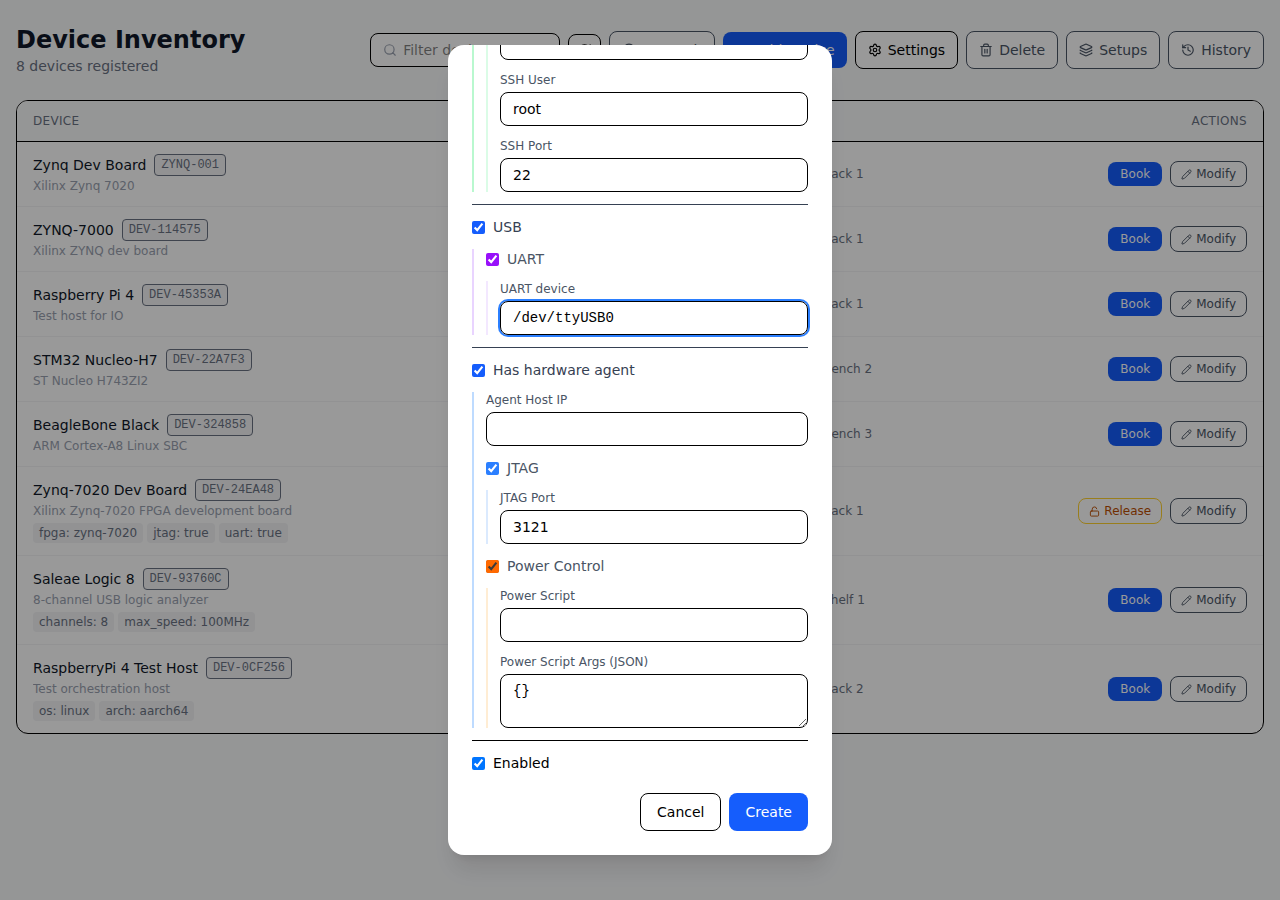
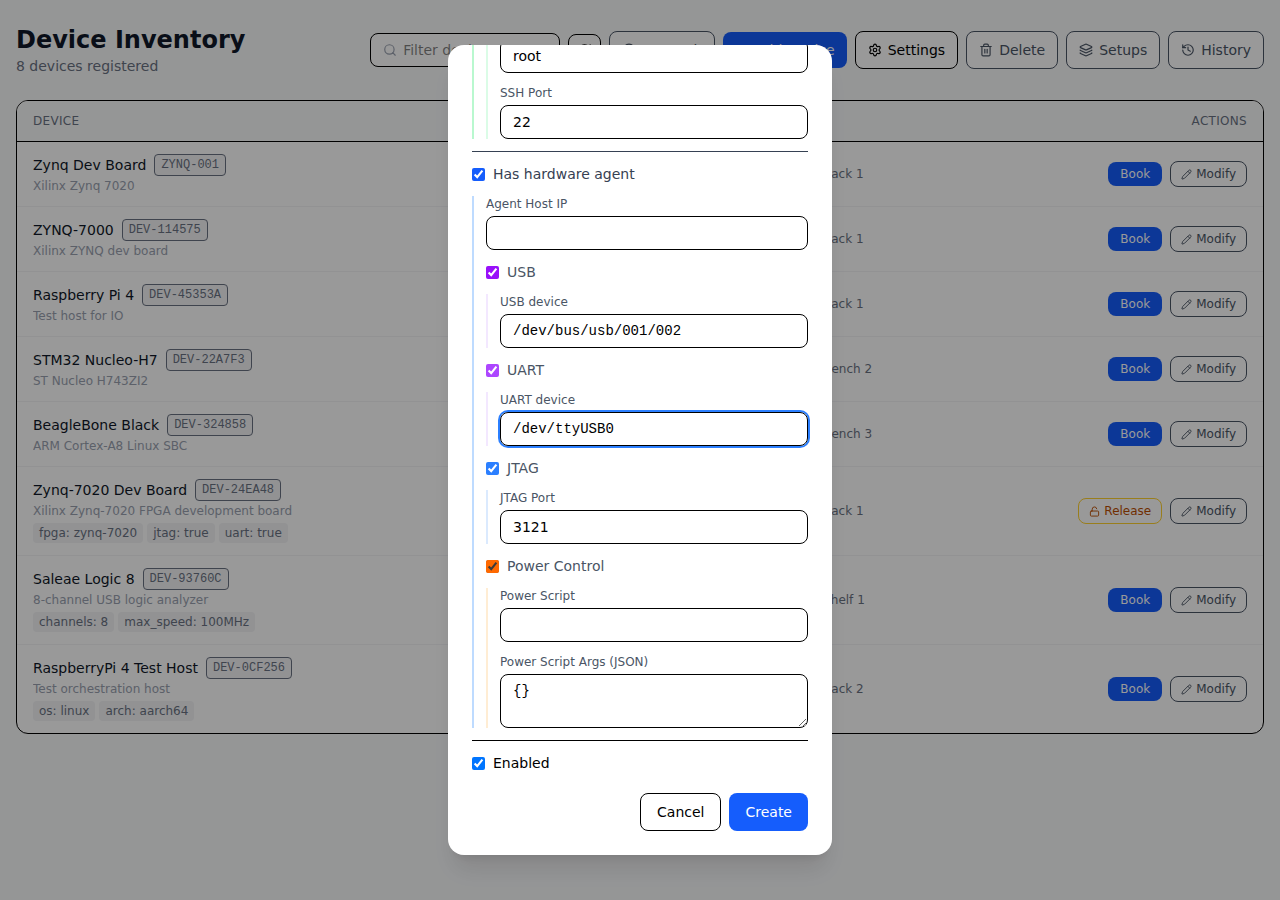
Update README and screenshot to match current form hierarchy
README fixes:
- Add Device form description updated: USB/UART now inside agent section,
  Ethernet shows Device IP at its level with SSH as sub-checkbox
- UART connectivity command updated from telnet to SSH+socat tunnel
- Device fields table: usb_device description corrected, uart_device added,
  uart_tcp_port removed
- Agent config example updated: added usb_device, removed uart_baud/uart_tcp_port
- Screenshot caption updated

Screenshot: add-device-modal-agent.png retaken showing Has hardware agent
expanded with USB, UART, JTAG and Power Control as sub-checkboxes

https://claude.ai/code/session_01GABJSn9qP5pQbQ7Q7k4QpR

Changed region(s): [[0.3438, 0.0622, 0.625, 0.3733], [0.3438, 0.4044, 0.5, 0.4978]]

diff --git a/README.md b/README.md
@@ -117,10 +117,9 @@ agent:
 
 boards:
   - id: "paste-device-uuid-here"
-    uart_device: "/dev/ttyUSB0"
-    uart_baud: 115200
-    jtag_port: 3121
-    uart_tcp_port: 5555
+    usb_device: "/dev/bus/usb/001/002"  # raw USB device (optional)
+    uart_device: "/dev/ttyUSB0"         # UART serial device (optional)
+    jtag_port: 3121                     # hw_server port (optional)
     power_script: "../power/usb_relay.py"
     power_args:
       relay_id: 1
@@ -156,9 +155,9 @@ Custom controllers: subclass `power.base.PowerController`.
 |----------|--------------------------|
 | ![Settings modal for server URL and username](screenshots/settings-modal.png) | ![Add setup modal with searchable device picker](screenshots/add-setup-modal.png) |
 
-| Book Setup modal | Add device (Ethernet + agent expanded) |
-|-----------------|---------------------------------------|
-| ![Book setup modal with duration and comment](screenshots/book-setup-modal.png) | ![Add device modal with Ethernet and agent sections expanded](screenshots/add-device-modal-agent.png) |
+| Book Setup modal | Add device (agent section expanded) |
+|-----------------|-------------------------------------|
+| ![Book setup modal with duration and comment](screenshots/book-setup-modal.png) | ![Add device modal with agent section expanded showing USB, UART, JTAG and Power Control](screenshots/add-device-modal-agent.png) |
 
 ---
 
@@ -179,12 +178,15 @@ Lists every registered device with live status:
 
 The **Filter** box searches by device name, device ID, location, username, or feature key.
 
-**Add Device** form has three optional sections, all collapsed by default:
+**Add Device** form sections, all collapsed by default:
 
-- **Ethernet** — reveal SSH connectivity:
-  - **SSH** *(sub-checkbox, on by default)* — reveal Device IP, SSH User, SSH Port
-- **USB** — reveal USB device path (e.g. `/dev/ttyUSB0`)
-- **Has hardware agent** — reveal Agent Host IP, JTAG Port, UART TCP Port, Power Script, Power Args
+- **Ethernet** — reveals Device IP, then SSH sub-checkbox (on by default):
+  - **SSH** — reveals SSH User, SSH Port
+- **Has hardware agent** — reveals Agent Host IP and capability sub-checkboxes (all off by default):
+  - **USB** — reveals USB device path (e.g. `/dev/bus/usb/001/002`)
+  - **UART** — reveals UART device path (e.g. `/dev/ttyUSB0`)
+  - **JTAG** — reveals JTAG Port
+  - **Power Control** — reveals Power Script, Power Script Args
 
 ### Device detail (`/devices/:id`)
 
@@ -196,9 +198,9 @@ Each device has a detail page with:
 
   | Service | Command |
   |---------|---------|
-  | SSH | `$ ssh root@<ip> -p <port>` |
-  | UART | `$ telnet <ip> <uart_port>` |
-  | JTAG | `$ connect_hw_server -url tcp:<ip>:<jtag_port>` |
+  | SSH | `$ ssh root@<device_ip> -p <port>` |
+  | UART | `$ sudo socat pty,link=/dev/ttyDEV-XXXX,rawer EXEC:"ssh vivado@<agent_ip> socat - /dev/ttyUSB0,rawer"` |
+  | JTAG | `$ connect_hw_server -url tcp:<agent_ip>:<jtag_port>` |
   | Power | `$ python3 <power_script> --action on` |
 
 - **Notes** — freeform notes, editable inline
@@ -301,8 +303,8 @@ Filter by user or action category (Bookings / Device changes).
 | `device_ip` | string | Device's own IP address (SSH target) |
 | `host_ip` | string | IP of the agent's host PC (JTAG / UART / power) |
 | `ssh_user` / `ssh_port` | string / int | SSH access (shown when Ethernet + SSH enabled) |
-| `usb_device` | string | USB device path on agent host (e.g. `/dev/ttyUSB0`) |
-| `uart_tcp_port` | int | TCP port for UART proxy |
+| `usb_device` | string | Raw USB device path on agent host (e.g. `/dev/bus/usb/001/002`) |
+| `uart_device` | string | UART serial device path on agent host (e.g. `/dev/ttyUSB0`) |
 | `jtag_port` | int | hw_server port |
 | `power_script` | string | Path to power control script |
 | `features` | JSON | Arbitrary key/value capability map |
